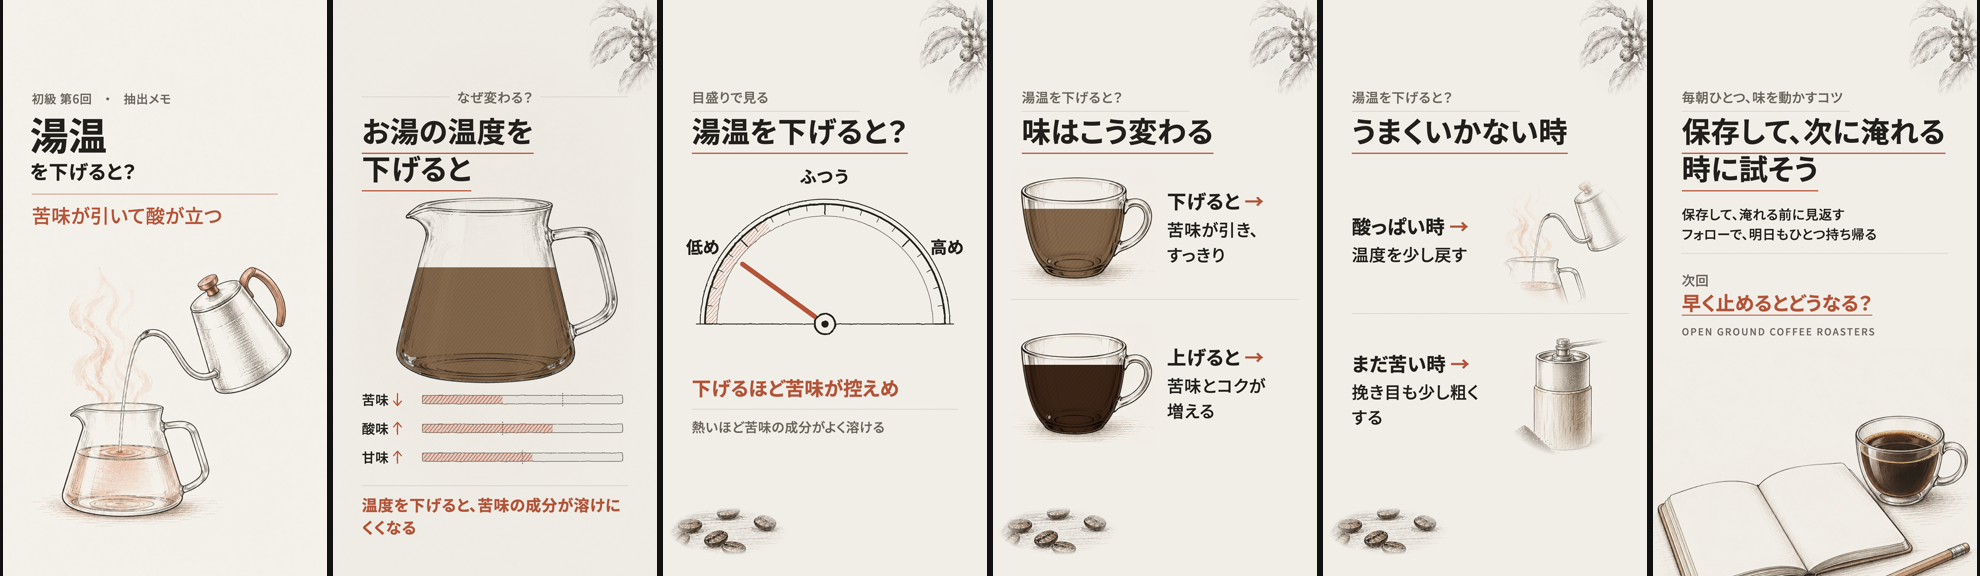
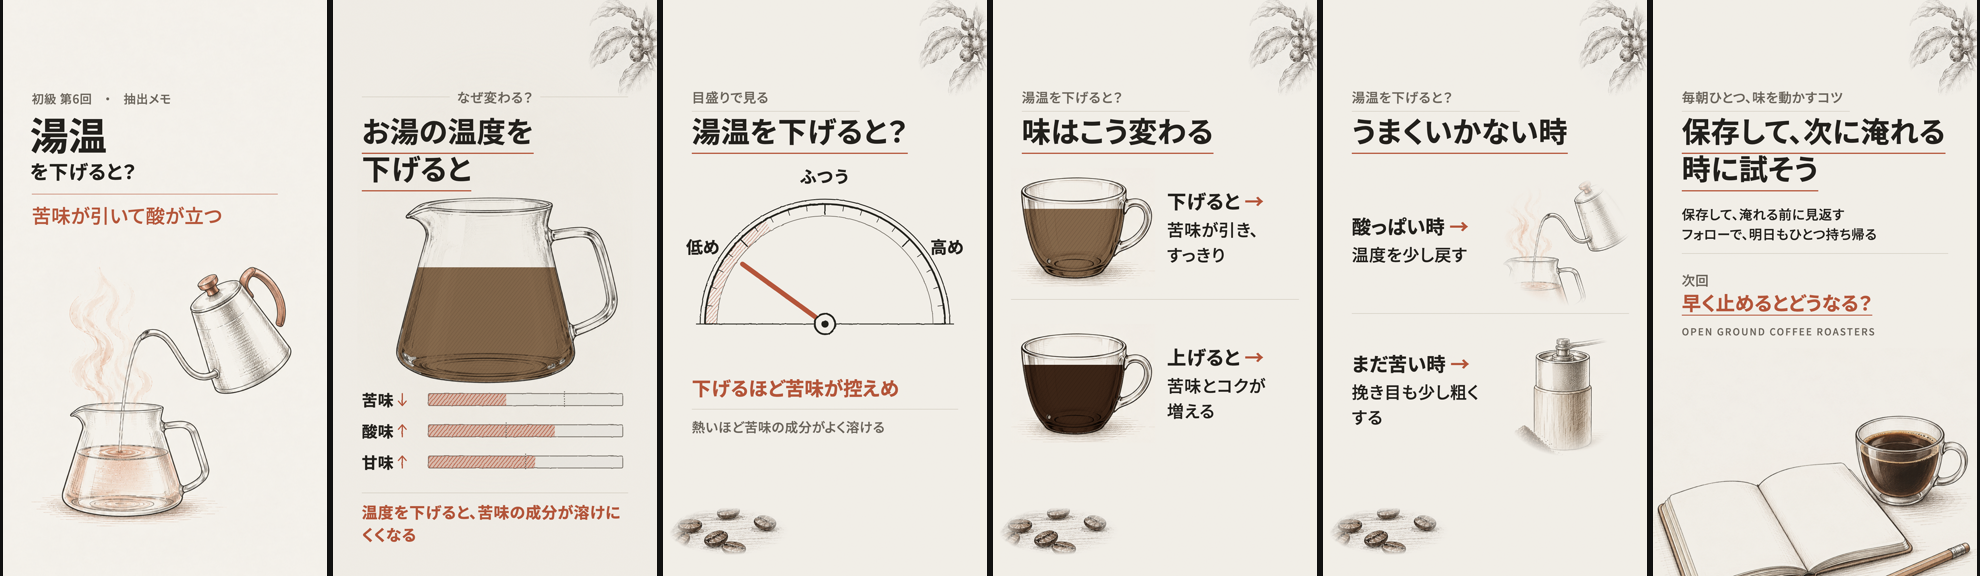
feat(looks): lab meters bolder, dissolving grounds visible; storyboard comparison sheets

Changed region(s): [[0.1848, 0.6562, 0.3081, 0.8125], [0.1848, 0.8438, 0.3081, 0.9375]]

diff --git a/src/looks/PencilMotion.tsx b/src/looks/PencilMotion.tsx
@@ -83,7 +83,7 @@ const Drawing: React.FC<{ v: Vessel; children?: React.ReactNode }> = ({ v, child
 /** Hatched pencil bars: the fill is diagonal strokes in the accent, the track a rough outline. */
 const PencilMeters: React.FC<{ meters: LessonMotion["meters"]; accent: string; top: number; gap: number; start?: number }> = ({ meters, accent, top, gap, start = 40 }) => {
   const f = useCurrentFrame();
-  const labelW = 200;
+  const labelW = 220;
   const barW = 888 - labelW - 20;
   return (
     <>
@@ -107,19 +107,19 @@ const PencilMeters: React.FC<{ meters: LessonMotion["meters"]; accent: string; t
         return (
           <div key={m.label} style={{ position: "absolute", left: 96, top: top + i * gap, width: 888, height: 64, display: "flex", alignItems: "center", opacity: prog(f, 14 + i * 6, 30 + i * 6) }}>
             <div style={{ width: labelW, display: "flex", alignItems: "center", gap: 10, whiteSpace: "nowrap" }}>
-              <span style={T(44, 500, INK)}>{m.label}</span>
+              <span style={T(52, 700, INK)}>{m.label}</span>
               {up || down ? (
                 <svg width={36} height={48} viewBox="0 0 36 48" style={{ opacity: prog(f, t0 + 50, t0 + 66), filter: "url(#rough)" }}>
                   <path d={up ? "M18 44 V6 M5 19 L18 4 L31 19" : "M18 4 V42 M5 29 L18 44 L31 29"} stroke={accent} strokeWidth={4} fill="none" strokeLinecap="round" strokeLinejoin="round" />
                 </svg>
               ) : null}
             </div>
-            <svg width={barW + 8} height={44} style={{ overflow: "visible", filter: "url(#rough)" }}>
-              <rect x={2} y={8} width={barW} height={28} rx={3} fill="rgba(34,32,28,0.03)" stroke={GREY} strokeWidth={2} />
-              <rect x={2} y={8} width={w} height={28} rx={3} fill="url(#hatch)" />
-              <rect x={2} y={8} width={w} height={28} rx={3} fill={accent} opacity={0.18} />
+            <svg width={barW + 8} height={52} style={{ overflow: "visible", filter: "url(#rough)" }}>
+              <rect x={2} y={6} width={barW} height={40} rx={4} fill="rgba(34,32,28,0.03)" stroke={GREY} strokeWidth={2.5} />
+              <rect x={2} y={6} width={w} height={40} rx={4} fill="url(#hatch)" />
+              <rect x={2} y={6} width={w} height={40} rx={4} fill={accent} opacity={0.3} />
               {/* where it was */}
-              <line x1={2 + (barW * m.from) / 100} x2={2 + (barW * m.from) / 100} y1={0} y2={44} stroke={GREY} strokeWidth={3} strokeDasharray="4 4" />
+              <line x1={2 + (barW * m.from) / 100} x2={2 + (barW * m.from) / 100} y1={-2} y2={54} stroke={GREY} strokeWidth={3} strokeDasharray="4 4" />
             </svg>
           </div>
         );
@@ -141,7 +141,7 @@ const Particles: React.FC<{ from: { x: number; y: number }; toY: number; density
         const life = ((f * 1.5 + i * 37) % 150) / 150;
         const x = from.x + (rand(i + 5) - 0.5) * 70 * life;
         const y = from.y + life * (toY - from.y);
-        return <circle key={i} cx={x} cy={y} r={7 - life * 2} fill={color} opacity={Math.sin(life * Math.PI) * 0.9} />;
+        return <circle key={i} cx={x} cy={y} r={9 - life * 3} fill={color} opacity={Math.sin(life * Math.PI) * 0.95} />;
       })}
     </svg>
   );
@@ -171,10 +171,10 @@ export const PencilMotion: React.FC<{ motion: LessonMotion; core: string; sides:
         ) : (
           <Pour mask={v.masks[0]} shade={shade} top={level(0.62)} drawIn={pourIn} />
         )}
-        {kind === "dripper" && v.tip ? <Particles from={v.tip} toY={level(0.62)} density={interpolate(f, [30, 110], [motion.shade.from, motion.shade.to], clamp)} color={accent} /> : null}
+        {kind === "dripper" && v.tip ? <Particles from={v.tip} toY={level(0.62)} density={interpolate(f, [30, 110], [motion.shade.from, motion.shade.to], clamp)} color={coffeeColor(88)} /> : null}
       </Drawing>
-      <PencilMeters meters={motion.meters} accent={accent} top={v.metersTop} gap={96} />
-      <div style={{ position: "absolute", left: 96, right: 96, top: v.metersTop + motion.meters.length * 96 + 30, opacity: prog(f, 100, 118), transform: `translateY(${(1 - prog(f, 100, 118)) * 16}px)` }}>
+      <PencilMeters meters={motion.meters} accent={accent} top={v.metersTop} gap={104} />
+      <div style={{ position: "absolute", left: 96, right: 96, top: v.metersTop + motion.meters.length * 104 + 30, opacity: prog(f, 100, 118), transform: `translateY(${(1 - prog(f, 100, 118)) * 16}px)` }}>
         <div style={{ height: 2, background: "#D6D0C4", marginBottom: 24 }} />
         <div style={T(52, 700, accent)}>{core}</div>
       </div>
